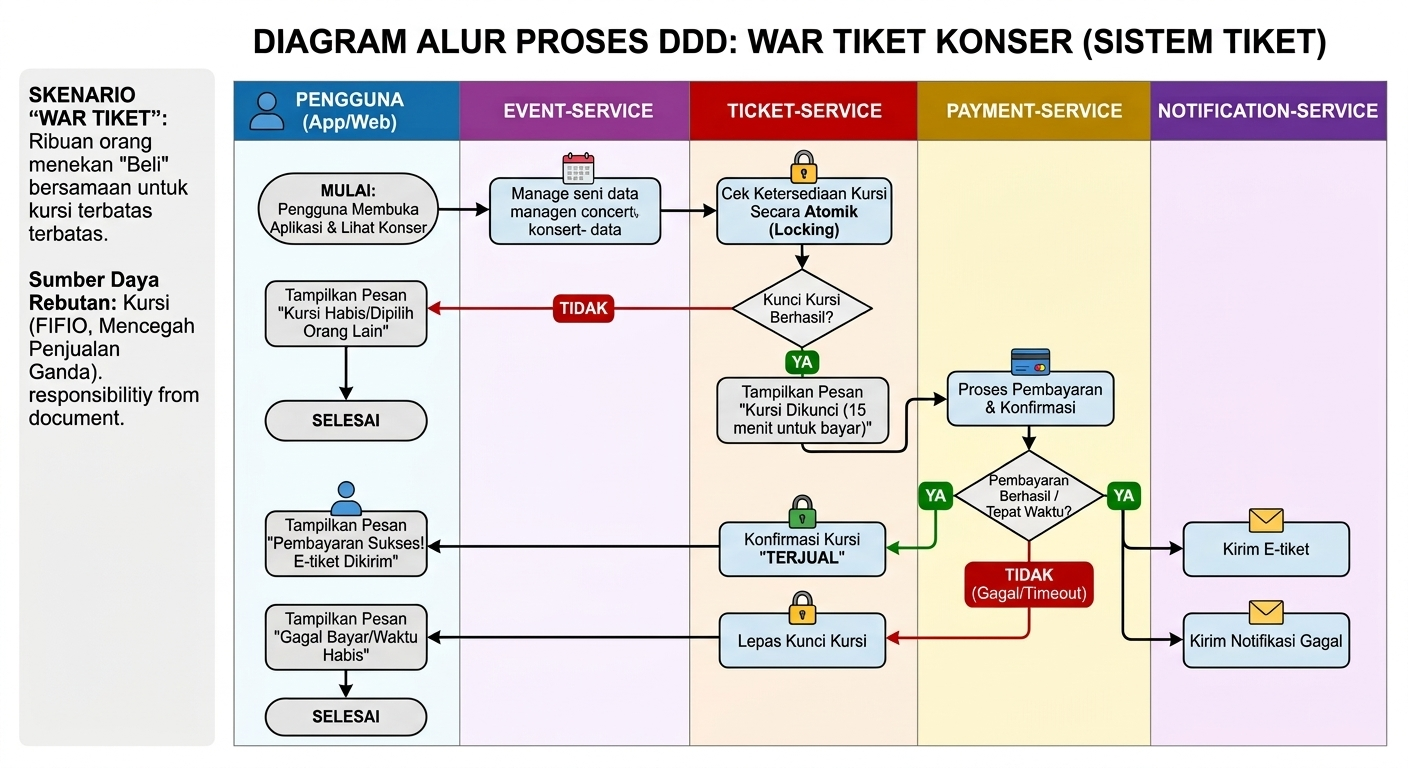
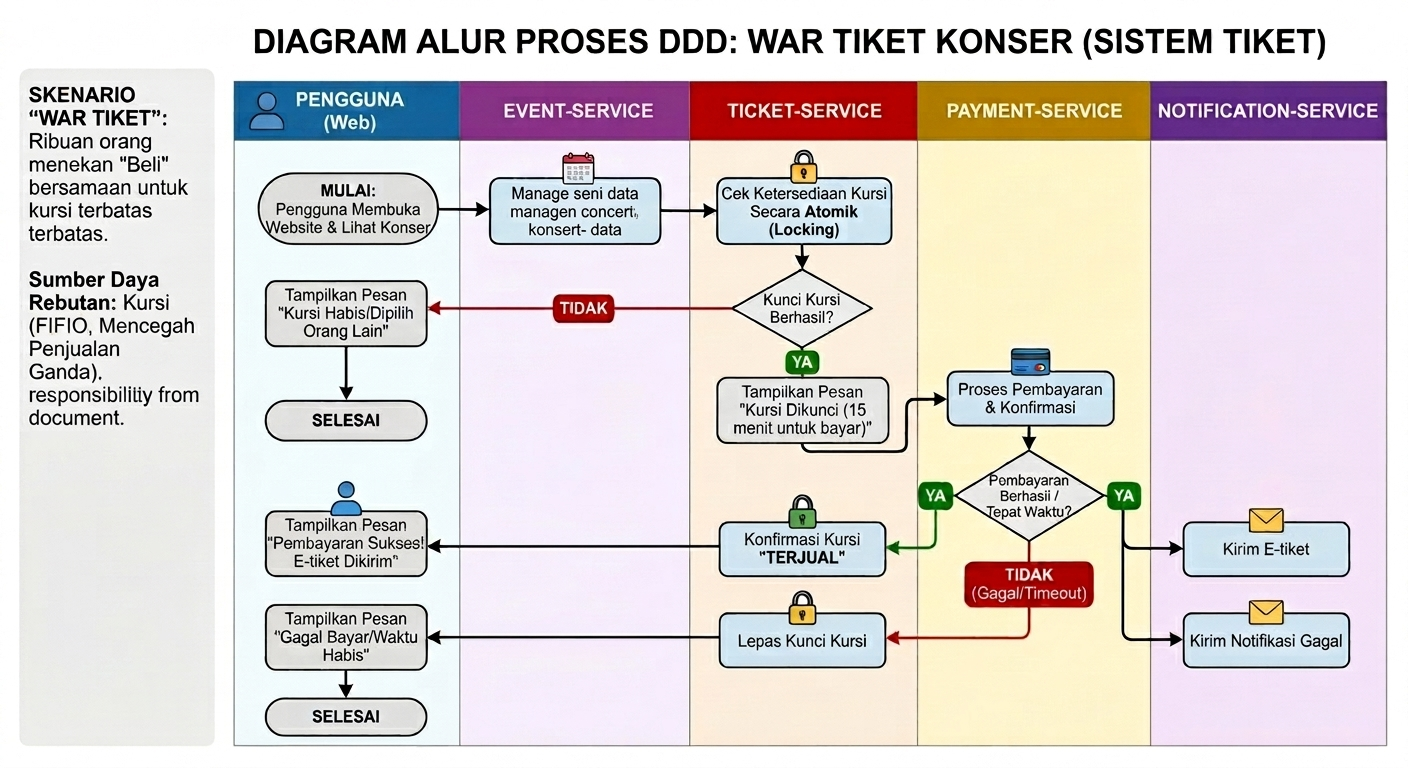
Update dokumen dan arsitektur sistem war tiket konser

diff --git a/README.md b/README.md
@@ -61,29 +61,3 @@ Data yang dikelola:
 
 ---
 
-# Context Map
-
-```mermaid
-flowchart TD
-
-A[Mobile Application]
-
-B[API Gateway :8080]
-
-C[event-service]
-
-D[ticket-service]
-
-E[payment-service]
-
-F[notification-service]
-
-
-A --> B
-
-B --> C
-B --> D
-
-D --> E
-
-E --> F
